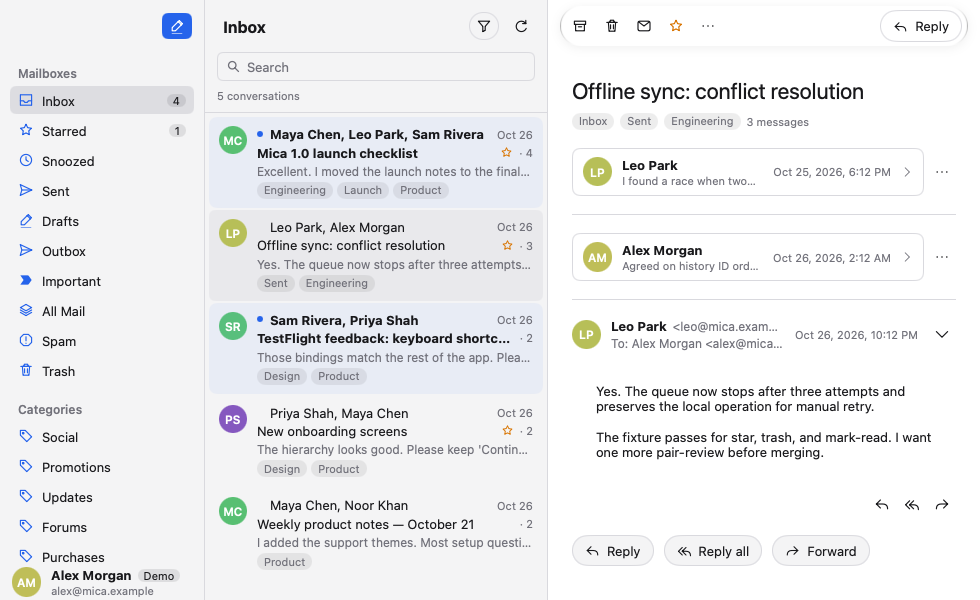
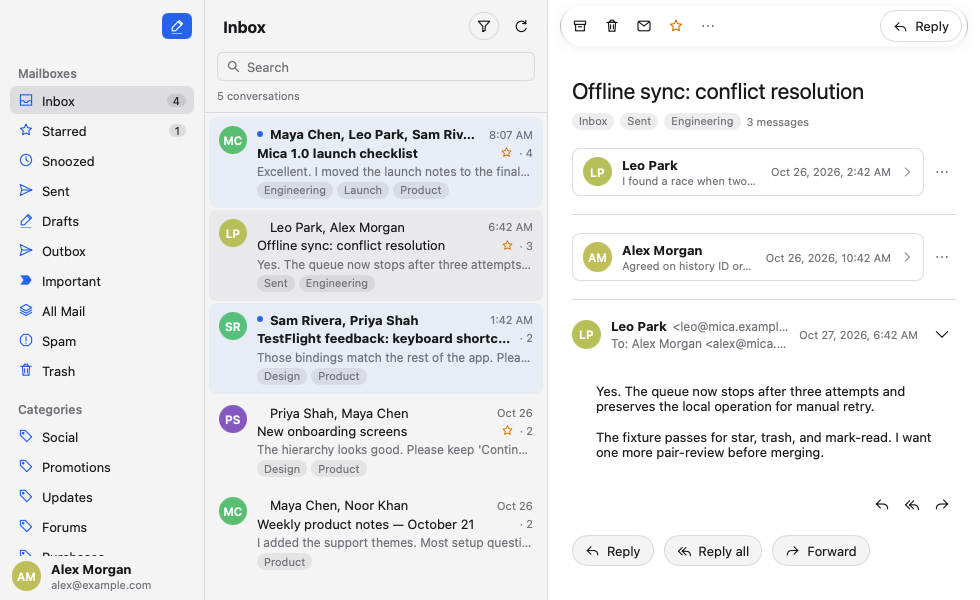
fix: simplify sidebar footer

diff --git a/internal/app/filters_test.go b/internal/app/filters_test.go
@@ -79,47 +79,41 @@ func newFilterTestApp(service *filterTestService) *App {
 func openTestFilters(t *testing.T, a *App) *ui.Tester {
 	t.Helper()
 	tt := ui.NewTester(a.View, 1280, 800)
-	if err := tt.Click("Filters"); err != nil {
-		t.Fatal(err)
-	}
+	a.OpenFilters()
+	tt.Frame()
 	return tt
 }
 
-func TestFiltersPrimaryEntryOutsideSettings(t *testing.T) {
+func TestFiltersUseMailboxActionWithoutSidebarEntry(t *testing.T) {
 	service := newFilterTestService()
 	a := newTestApp(service)
 	tt := ui.NewTester(a.View, 1280, 800)
-	entry, ok := tt.Find("Filters")
-	if !ok || entry.W <= 0 || entry.H <= 0 {
-		t.Fatalf("main window has no Filters feature entry: %+v", entry)
+	if tt.HasText("Filters") {
+		t.Fatalf("sidebar still contains Filters: %q", tt.Texts())
 	}
-	if entry.X >= a.sidebarWidth || entry.Y+entry.H < 760 {
-		t.Fatalf("Filters is not a fixed sidebar footer entry: %+v", entry)
-	}
-	if err := tt.Click("Filters"); err != nil {
-		t.Fatal(err)
-	}
+	a.OpenFilters()
+	tt.Frame()
 	if a.filterDialog == nil || service.listCalls != 1 {
-		t.Fatalf("sidebar Filters did not load the active account: dialog=%p calls=%d", a.filterDialog, service.listCalls)
+		t.Fatalf("Mailbox Filters did not load the active account: dialog=%p calls=%d", a.filterDialog, service.listCalls)
 	}
 }
 
-func TestFiltersPrimaryEntryStaysVisibleWithLongSidebar(t *testing.T) {
+func TestAccountStaysVisibleWithLongSidebar(t *testing.T) {
 	service := newFilterTestService()
 	for i := 1; i <= 40; i++ {
 		service.labels = append(service.labels, mail.Label{ID: fmt.Sprintf("Label_sidebar_%d", i), Name: fmt.Sprintf("Sidebar label %d", i)})
 	}
 	a := newTestApp(service)
 	tt := ui.NewTester(a.View, 1280, 600)
-	entry, ok := tt.Find("Filters")
-	if !ok || entry.W <= 0 || entry.H <= 0 || entry.Y+entry.H < 560 {
-		t.Fatalf("Filters footer is not visible at the minimum window height: %+v", entry)
+	if tt.HasText("Filters") {
+		t.Fatalf("sidebar still contains Filters: %q", tt.Texts())
 	}
-	if err := tt.Click("Filters"); err != nil {
-		t.Fatal(err)
+	account, ok := tt.Find(a.account.Name)
+	if !ok || account.W <= 0 || account.H <= 0 {
+		t.Fatalf("account footer is not visible at the minimum window height: %+v", account)
 	}
-	if a.filterDialog == nil || service.listCalls != 1 {
-		t.Fatalf("minimum-height Filters entry is not usable: dialog=%p calls=%d", a.filterDialog, service.listCalls)
+	if bottom := 600 - account.Y - account.H; bottom < 8 {
+		t.Fatalf("account row has only %vpt below it, want at least 8pt", bottom)
 	}
 }
 
@@ -195,17 +189,15 @@ func TestFiltersAuthenticationPreventsMenuAndReopen(t *testing.T) {
 	if len(states) != 1 || states[0] {
 		t.Errorf("authentication left the Mailbox action enabled: %v", states)
 	}
-	if err := tt.Click("Filters"); err != nil {
-		t.Logf("sidebar Filters is disabled during authentication: %v", err)
-	}
+	a.OpenFilters()
+	tt.Frame()
 	if a.filterDialog != nil || service.listCalls != 1 {
 		t.Fatalf("authentication allowed Filters to reopen: dialog=%p calls=%d", a.filterDialog, service.listCalls)
 	}
 	a.authCancel = nil
 	tt.Frame()
-	if err := tt.Click("Filters"); err != nil {
-		t.Fatal(err)
-	}
+	a.OpenFilters()
+	tt.Frame()
 	if a.filterDialog == nil || service.listCalls != 2 {
 		t.Fatalf("authentication completion did not restore Filters: dialog=%p calls=%d", a.filterDialog, service.listCalls)
 	}

diff --git a/internal/app/view.go b/internal/app/view.go
@@ -168,15 +168,7 @@ func (a *App) sidebar(c *ui.Context) {
 		if mailboxList.Changed() {
 			a.selectLabel()
 		}
-		if !a.account.Demo {
-			ui.Row(c).Padding(4, 8).Shrink(0).Children(func() {
-				ui.Button(c.Key("gmail-filters"), "").Label(locales.Filters()).Tooltip(locales.FilterDialogTitle()).WidthPercent(100).Padding(8, 12).Gap(8).Justify(ui.Start).Disabled(!a.filtersAccountReady()).OnClick(a.openFilters).Children(func() {
-					ui.Icon(c, iconFilter).Size(16, 16).TextColor(t.TextMuted)
-					ui.Text(c, locales.Filters())
-				})
-			})
-		}
-		ui.Row(c).Height(36).Shrink(0).Padding(2, 12).Gap(10).AlignItems(ui.Center).Children(func() {
+		ui.Row(c).Height(44).Shrink(0).Padding(4, 12, 8, 12).Gap(10).AlignItems(ui.Center).Children(func() {
 			ui.Avatar(c, a.account.Name, a.accountPhoto)
 			ui.Column(c).Grow(1).MinWidth(0).Gap(1).Children(func() {
 				ui.Row(c).Gap(6).AlignItems(ui.Center).Children(func() {

diff --git a/internal/app/visual_test.go b/internal/app/visual_test.go
@@ -33,6 +33,9 @@ func TestAccountRowIsSidebarFooter(t *testing.T) {
 	if account.Y < 700 {
 		t.Fatalf("account row is not in the sidebar footer: %+v", account)
 	}
+	if bottom := 800 - account.Y - account.H; bottom < 8 {
+		t.Fatalf("account row has only %vpt below it, want at least 8pt", bottom)
+	}
 }
 
 func TestThreadListUsesSenderAvatar(t *testing.T) {
@@ -212,6 +215,9 @@ func TestCaptureVisualRefresh(t *testing.T) {
 	}
 	t.Run("minimum window", func(t *testing.T) {
 		a := newTestApp(mail.NewDemo())
+		a.account.Name = "Alex Morgan"
+		a.account.Email = "alex@example.com"
+		a.account.Demo = false
 		a.selectThread("t-sync")
 		tt := ui.NewTester(a.View, 980, 600)
 		tt.SetLocale("en")

diff --git a/docs/design.md b/docs/design.md
@@ -59,7 +59,7 @@ The language selector stores locale codes but presents readable names in both it
 - Startup and account switches select the newest conversation from the first non-empty list and restore cached detail when available. Later refreshes can insert newer conversations above it without changing the selected thread or switching the reader.
 - Closing the main window hides it and keeps Mica in the Dock. Dock activation restores the same window, while Quit still exits.
 - Settings opens from the application menu with Cmd+, and the main window is restored when necessary.
-- Filters opens from the fixed sidebar footer or Mailbox → Gmail Filters… for the active real Gmail account, restoring the main window when necessary. Demo hides the sidebar action and disables the menu action. The Mailbox action stays available while the dialog is open so it can restore a hidden window without reloading filters.
+- Filters opens from Mailbox → Gmail Filters… for the active real Gmail account, restoring the main window when necessary. Demo disables the menu action, and there is no sidebar filter entry. The Mailbox action stays available while the dialog is open so it can restore a hidden window without reloading filters.
 - Sidebar and conversation-list widths and the global remote-image preference persist in local preferences and restore before the first frame; per-message image permission and other reading state stay session-only.
 - Gmail watch and Pub/Sub Streaming Pull cover only the active account, while notifications remain limited to unread INBOX activity. Shared-subscription messages carry the account email and are acknowledged without triggering history work for other accounts. Each worker owns its stream, timers, and delayed history batches; cancellation discards pending callbacks but keeps running callbacks in the wait set, and account transitions wait for actual exit before replacing state. Notification IDs encode the normalized account email and thread ID, so a click either opens in that account after the shared handoff or is ignored when the target is unavailable. The watch renews daily, and an incremental history reconciliation runs hourly. A per-account local history checkpoint catches up after restarts without treating existing unread mail as new. History additions, deletions, and label changes refresh complete conversations in SQLite before the checkpoint advances. The visible thread list updates without invalidating opened conversations, and selection follows the thread ID when rows move. Draft view and search results always refresh from their own query instead of merging ordinary thread IDs.
 - Compose and reply preserve unsent input and attachments after a failure. Multi-file selection and drops read files in the background; each item shows its name, size, reading or error state, and a remove action. Results from removed items or a replaced composer are discarded, and sending is blocked until every attachment has loaded without errors. File selection and drops during send, close, or discard are rejected with an explicit wait message.
@@ -140,7 +140,7 @@ Real Gmail acceptance requires a Google test account.
 - Remote image tests prove default blocking before any remote request, owner/message isolation, inline-source compatibility, global preference restoration, latest-write ordering, background-image detection, and English settings/message controls. No real remote image host is contacted.
 - Control styling tests prove the Remote images switch has a visible knob that moves to the expected side, toolbar Reply and icon menus have rounded hover feedback, and the unread filter keeps its Accent color transition. Label color menus use leading colored-circle glyphs, and sidebar label swatches are checked for exact center color and a circular outline. Regressions reproduced the missing knob, rectangular hover, missing menu swatch, and themed tag icon before their fixes. The updated English Settings and button-pressed captures were inspected; the Settings capture is `docs/screenshots/settings.png`.
 - Conversation-label rendering tests cover presence in both list and reader, exact Gmail background and text pixels, horizontal and vertical capsule padding, selected colored and neutral contrast, same-ID owner routing, effective-mailbox omission, global-search retention, All Inboxes membership, single-line strips with clipped overflow, and reader wrapping. Regressions reproduced missing list labels, gray unpadded reader badges, low-contrast selected neutral capsules, non-wrapping reader labels, account-Inbox duplication, and global-search omissions before their fixes. Glyph-balance tests measure top and bottom ink spacing for `github`, `Receipts`, `Product`, and `Launch` at 2x, covering names with and without descenders. The 10px/5px descender mismatch failed before the shared offset, and the final renderer keeps every case within three physical pixels to account for glyph shape and rasterization. The English light and dark README captures were regenerated from the demo mailbox and inspected at full size and in focused crops. Real Gmail label rendering and native-window acceptance have not been exercised.
-- Filter transport tests use fake HTTP to verify the singular `filter` response, every criteria/action field, empty lists, omitted empty request fields, server-assigned IDs, exact escaped Delete paths, empty-ID validation, responses without server IDs, preserved 403 errors, and exactly one POST after a transient Create failure. Rendered English tests cover loading, empty and advanced summaries, real form input and action mapping, zero-request validation, confirmed deletion, error and busy recovery, unsupported and Demo services, and stale responses after closure or account replacement. The initial scrolled Create action reproduced empty bounds and modal dismissal before moving to a fixed footer; unique control labels and bound-value assertions now verify the intended inputs. The English `docs/screenshots/filters.png` capture was rendered and inspected for complete form and footer controls. Additional regressions cover 600pt permission recovery, a real label named `No label`, busy dismissal, and account-transition draining of Create. The 600pt case produced empty Reauthorize bounds, the same-named label lost its ID, and direct scheduling allowed the transition to overtake the write before the fixes. A 30-label popup regression verifies a real scroll-state increase and clicking the final visible option; removing the scroll container leaves the offset at zero. Primary-entry tests cover the fixed sidebar action at 600pt with 40 custom labels, the Mailbox menu action and availability, duplicate-open suppression, window restoration with an open dialog, authentication write/reopen guards and recovery, and Settings-independent close behavior; the missing primary entry, Settings-owned close behavior, authentication overlaps, and disabled restoration action failed these assertions before their fixes. The refreshed English Filters and Settings captures were inspected. Real Gmail filter reads, writes, and incremental authorization have not been exercised.
+- Filter transport tests use fake HTTP to verify the singular `filter` response, every criteria/action field, empty lists, omitted empty request fields, server-assigned IDs, exact escaped Delete paths, empty-ID validation, responses without server IDs, preserved 403 errors, and exactly one POST after a transient Create failure. Rendered English tests cover loading, empty and advanced summaries, real form input and action mapping, zero-request validation, confirmed deletion, error and busy recovery, unsupported and Demo services, and stale responses after closure or account replacement. The initial scrolled Create action reproduced empty bounds and modal dismissal before moving to a fixed footer; unique control labels and bound-value assertions now verify the intended inputs. The English `docs/screenshots/filters.png` capture was rendered and inspected for complete form and footer controls. Additional regressions cover 600pt permission recovery, a real label named `No label`, busy dismissal, and account-transition draining of Create. The 600pt case produced empty Reauthorize bounds, the same-named label lost its ID, and direct scheduling allowed the transition to overtake the write before the fixes. A 30-label popup regression verifies a real scroll-state increase and clicking the final visible option; removing the scroll container leaves the offset at zero. Primary-entry tests cover the Mailbox action and availability, no sidebar entry, and account footer spacing at 600pt with 40 custom labels, duplicate-open suppression, window restoration with an open dialog, authentication write/reopen guards and recovery, and Settings-independent close behavior; the missing primary entry, Settings-owned close behavior, authentication overlaps, and disabled restoration action failed these assertions before their fixes. The refreshed English Filters and Settings captures were inspected. Real Gmail filter reads, writes, and incremental authorization have not been exercised.
 - The 0.14.0 release workflow built, signed, notarized, and published the DMG, universal archive, three delta updates, and updater JSON. A real update installation has not been tested.
 - Loading-skeleton tests initially failed because the list had no structured loading region and the reader loading label was only 14pt high; the filtered-empty and icon-press regressions also failed before their fixes. Tests now cover initial list and reader loading, preservation of loaded content and filtered empty states, full-period shimmer pixels, reduced-motion stability, and press/release with unchanged layout bounds. `TestSkeletonShimmer` passed five consecutive runs. The English light and dark `loading-list*.png` and `loading-reader*.png` captures, the 980×600 reader, and the `button-press-*.png` start/middle/end frames were rendered and inspected.
-- The visual-refresh baseline failed for saturated selection, a top account card, count-driven row height, gradient primary actions, missing More actions, and an absent compact header. Tests now verify neutral selection and soft unread pixels, sender avatars, stable row height, footer and Filters bounds, real More submenu actions, and compact-header start/middle/end plus reduced motion. The toolbar Enter transition initially produced identical frames and was replaced after a dedicated regression failed. The English light and dark README images, `visual-min.png`, `visual-multi-select.png`, and `visual-header-*.png` were inspected. Core UI tests passed five consecutive runs, and the full suite, race detector, vet, MyGo vet, generation, and i18n checks pass.
+- The visual-refresh baseline failed for saturated selection, a top account card, count-driven row height, gradient primary actions, missing More actions, and an absent compact header. Tests now verify neutral selection and soft unread pixels, sender avatars, stable row height, account footer spacing and Mailbox filter availability, real More submenu actions, and compact-header start/middle/end plus reduced motion. The toolbar Enter transition initially produced identical frames and was replaced after a dedicated regression failed. The English light and dark README images, `visual-min.png`, `visual-multi-select.png`, and `visual-header-*.png` were inspected. Core UI tests passed five consecutive runs, and the full suite, race detector, vet, MyGo vet, generation, and i18n checks pass. The sidebar footer regression also failed with a non-Demo Filters entry and insufficient account inset; the final non-Demo minimum-window capture leaves 8pt below the account and has no sidebar filter entry.

diff --git a/README.md b/README.md
@@ -34,7 +34,7 @@
 - **Persistent Snooze.** Archive conversations until a local wake time, see them in Snoozed, reschedule or cancel, and restore them after restarts. Gmail changes stay ordered through the same background queue.
 - **Email links.** Open `mailto:` links into a draft, with an explicit default email app setting in macOS.
 - **Label management.** Assign, create, recolor, and delete custom Gmail labels, with color-coded capsules in the conversation list and reader.
-- **Gmail filters.** Manage server-side rules for the active Gmail account from **Filters** in the sidebar or **Mailbox → Gmail Filters…**. Create rules from sender, recipient, subject, search, and attachment conditions, and delete rules after confirmation. Apply custom labels, stars, Inbox skipping, and read state to new incoming messages. Existing advanced criteria and forwarding actions remain readable; Mica does not replay filters against old mail.
+- **Gmail filters.** Manage server-side rules for the active Gmail account through **Mailbox → Gmail Filters…**. Create rules from sender, recipient, subject, search, and attachment conditions, and delete rules after confirmation. Apply custom labels, stars, Inbox skipping, and read state to new incoming messages. Existing advanced criteria and forwarding actions remain readable; Mica does not replay filters against old mail.
 - **Comfortable reading.** Sanitized HTML mail, inline images, collapsible messages, light and dark appearances, and reduced-motion support.
 - **Remote image privacy.** Remote images are blocked by default. Allow them for one message or enable automatic loading in Settings.
 - **Multiple Gmail accounts.** Add, switch between, reauthorize, and remove accounts without mixing their credentials, caches, drafts, or notifications.

diff --git a/docs/LESSONS.md b/docs/LESSONS.md
@@ -205,6 +205,7 @@
 
 - Moving an action out of a preferences panel also requires removing the panel's ownership of its state. The Filters move exposed close-time coupling that discarded the dialog and blocked Settings on filter writes; cover the primary entry, repeated opening, modal availability, and independent close behavior with rendered tests.
 - Opening a feature and restoring its existing window are different availability contracts. Keep the Mailbox action enabled while Filters is open without reloading it, and carry authentication guards independently of Settings; state-based regressions reproduced enabled writes and reopening during authentication, plus a disabled restoration action with an open dialog.
+- Fixed sidebar footers are poor homes for low-frequency management actions and account identity. Keep those actions in the application menu, give the account an explicit bottom inset, and verify a non-Demo capture; a Demo that hides the action cannot expose the crowding.
 
 ## Validate release metadata early
 
